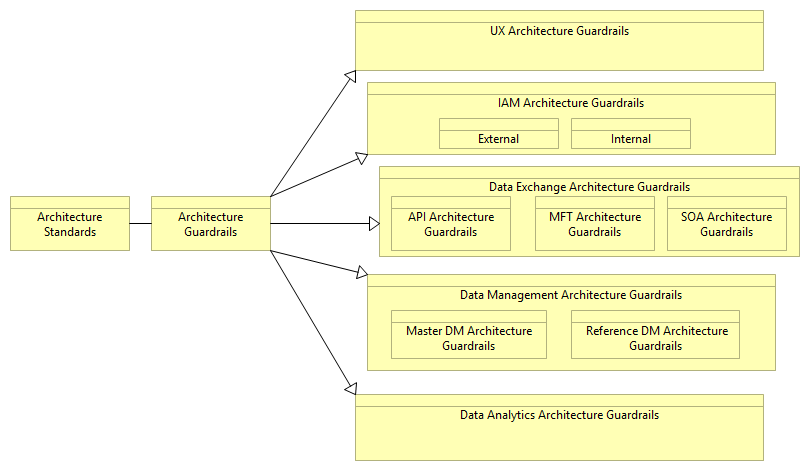
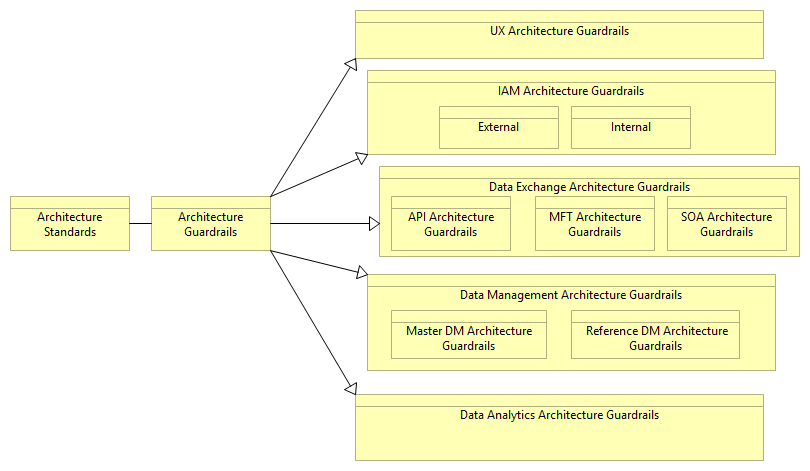
Layout up

diff --git a/reports/CommonSandbox Report/e8ecca68-8692-400d-9425-b00d60784a26/views/d41c6615-f355-4985-a153-498afca6896d.html b/reports/CommonSandbox Report/e8ecca68-8692-400d-9425-b00d60784a26/views/d41c6615-f355-4985-a153-498afca6896d.html
@@ -37,15 +37,15 @@
 				  		<area shape="rect" coords="667,196,787,251" href="../elements/265afe5d-2835-4126-b62c-ef4df6f67d1b.html"  target="element">
 				  		<area shape="rect" coords="535,196,655,251" href="../elements/faad3315-bbda-4d2a-8414-1551d0e9b3d0.html"  target="element">
 				  		<area shape="rect" coords="355,394,764,461" href="../elements/74680ec8-2528-4bbb-96d9-6cdcddea3a5b.html"  target="element">
-				  				<area shape="rect" coords="439,118,559,149" href="../elements/5dff957a-8be6-4078-91fb-82da8abefbd2.html"  target="element">
-				  				<area shape="rect" coords="571,118,691,149" href="../elements/5d2162f8-f209-4747-b617-38861b9877d8.html"  target="element">
+				  				<area shape="rect" coords="439,106,559,149" href="../elements/5dff957a-8be6-4078-91fb-82da8abefbd2.html"  target="element">
+				  				<area shape="rect" coords="571,106,691,149" href="../elements/5d2162f8-f209-4747-b617-38861b9877d8.html"  target="element">
 
-				  		<area shape="rect" coords="367,82,776,155" href="../elements/77602c24-1722-41cb-9b4f-f9cf13e0d914.html"  target="element">
+				  		<area shape="rect" coords="367,70,776,155" href="../elements/77602c24-1722-41cb-9b4f-f9cf13e0d914.html"  target="element">
 				  				<area shape="rect" coords="571,310,740,359" href="../elements/aff8ab10-9d6c-4b8f-9b0c-0f25fe5c2d5a.html"  target="element">
 				  				<area shape="rect" coords="391,310,547,359" href="../elements/947884df-efc0-43f5-a37a-c35792cffa6c.html"  target="element">
 
 				  		<area shape="rect" coords="367,274,776,371" href="../elements/ddda3e6f-4795-4d97-8ae9-968147229cf7.html"  target="element">
-				  		<area shape="rect" coords="355,10,764,71" href="../elements/80522499-7dd8-4d73-bfce-c003bc3c3649.html"  target="element">
+				  		<area shape="rect" coords="355,10,764,59" href="../elements/80522499-7dd8-4d73-bfce-c003bc3c3649.html"  target="element">
 				  		<area shape="rect" coords="10,196,130,251" href="../elements/cf3130d5-3924-40c4-bf19-37470c013751.html"  target="element">
 				  		<area shape="rect" coords="391,196,511,251" href="../elements/b473190d-b5e1-4655-8c3f-bf87099ce8be.html"  target="element">
 				  		<area shape="rect" coords="151,196,271,251" href="../elements/06c492be-ccd5-4fff-83f4-f98b7fc4f906.html"  target="element">
